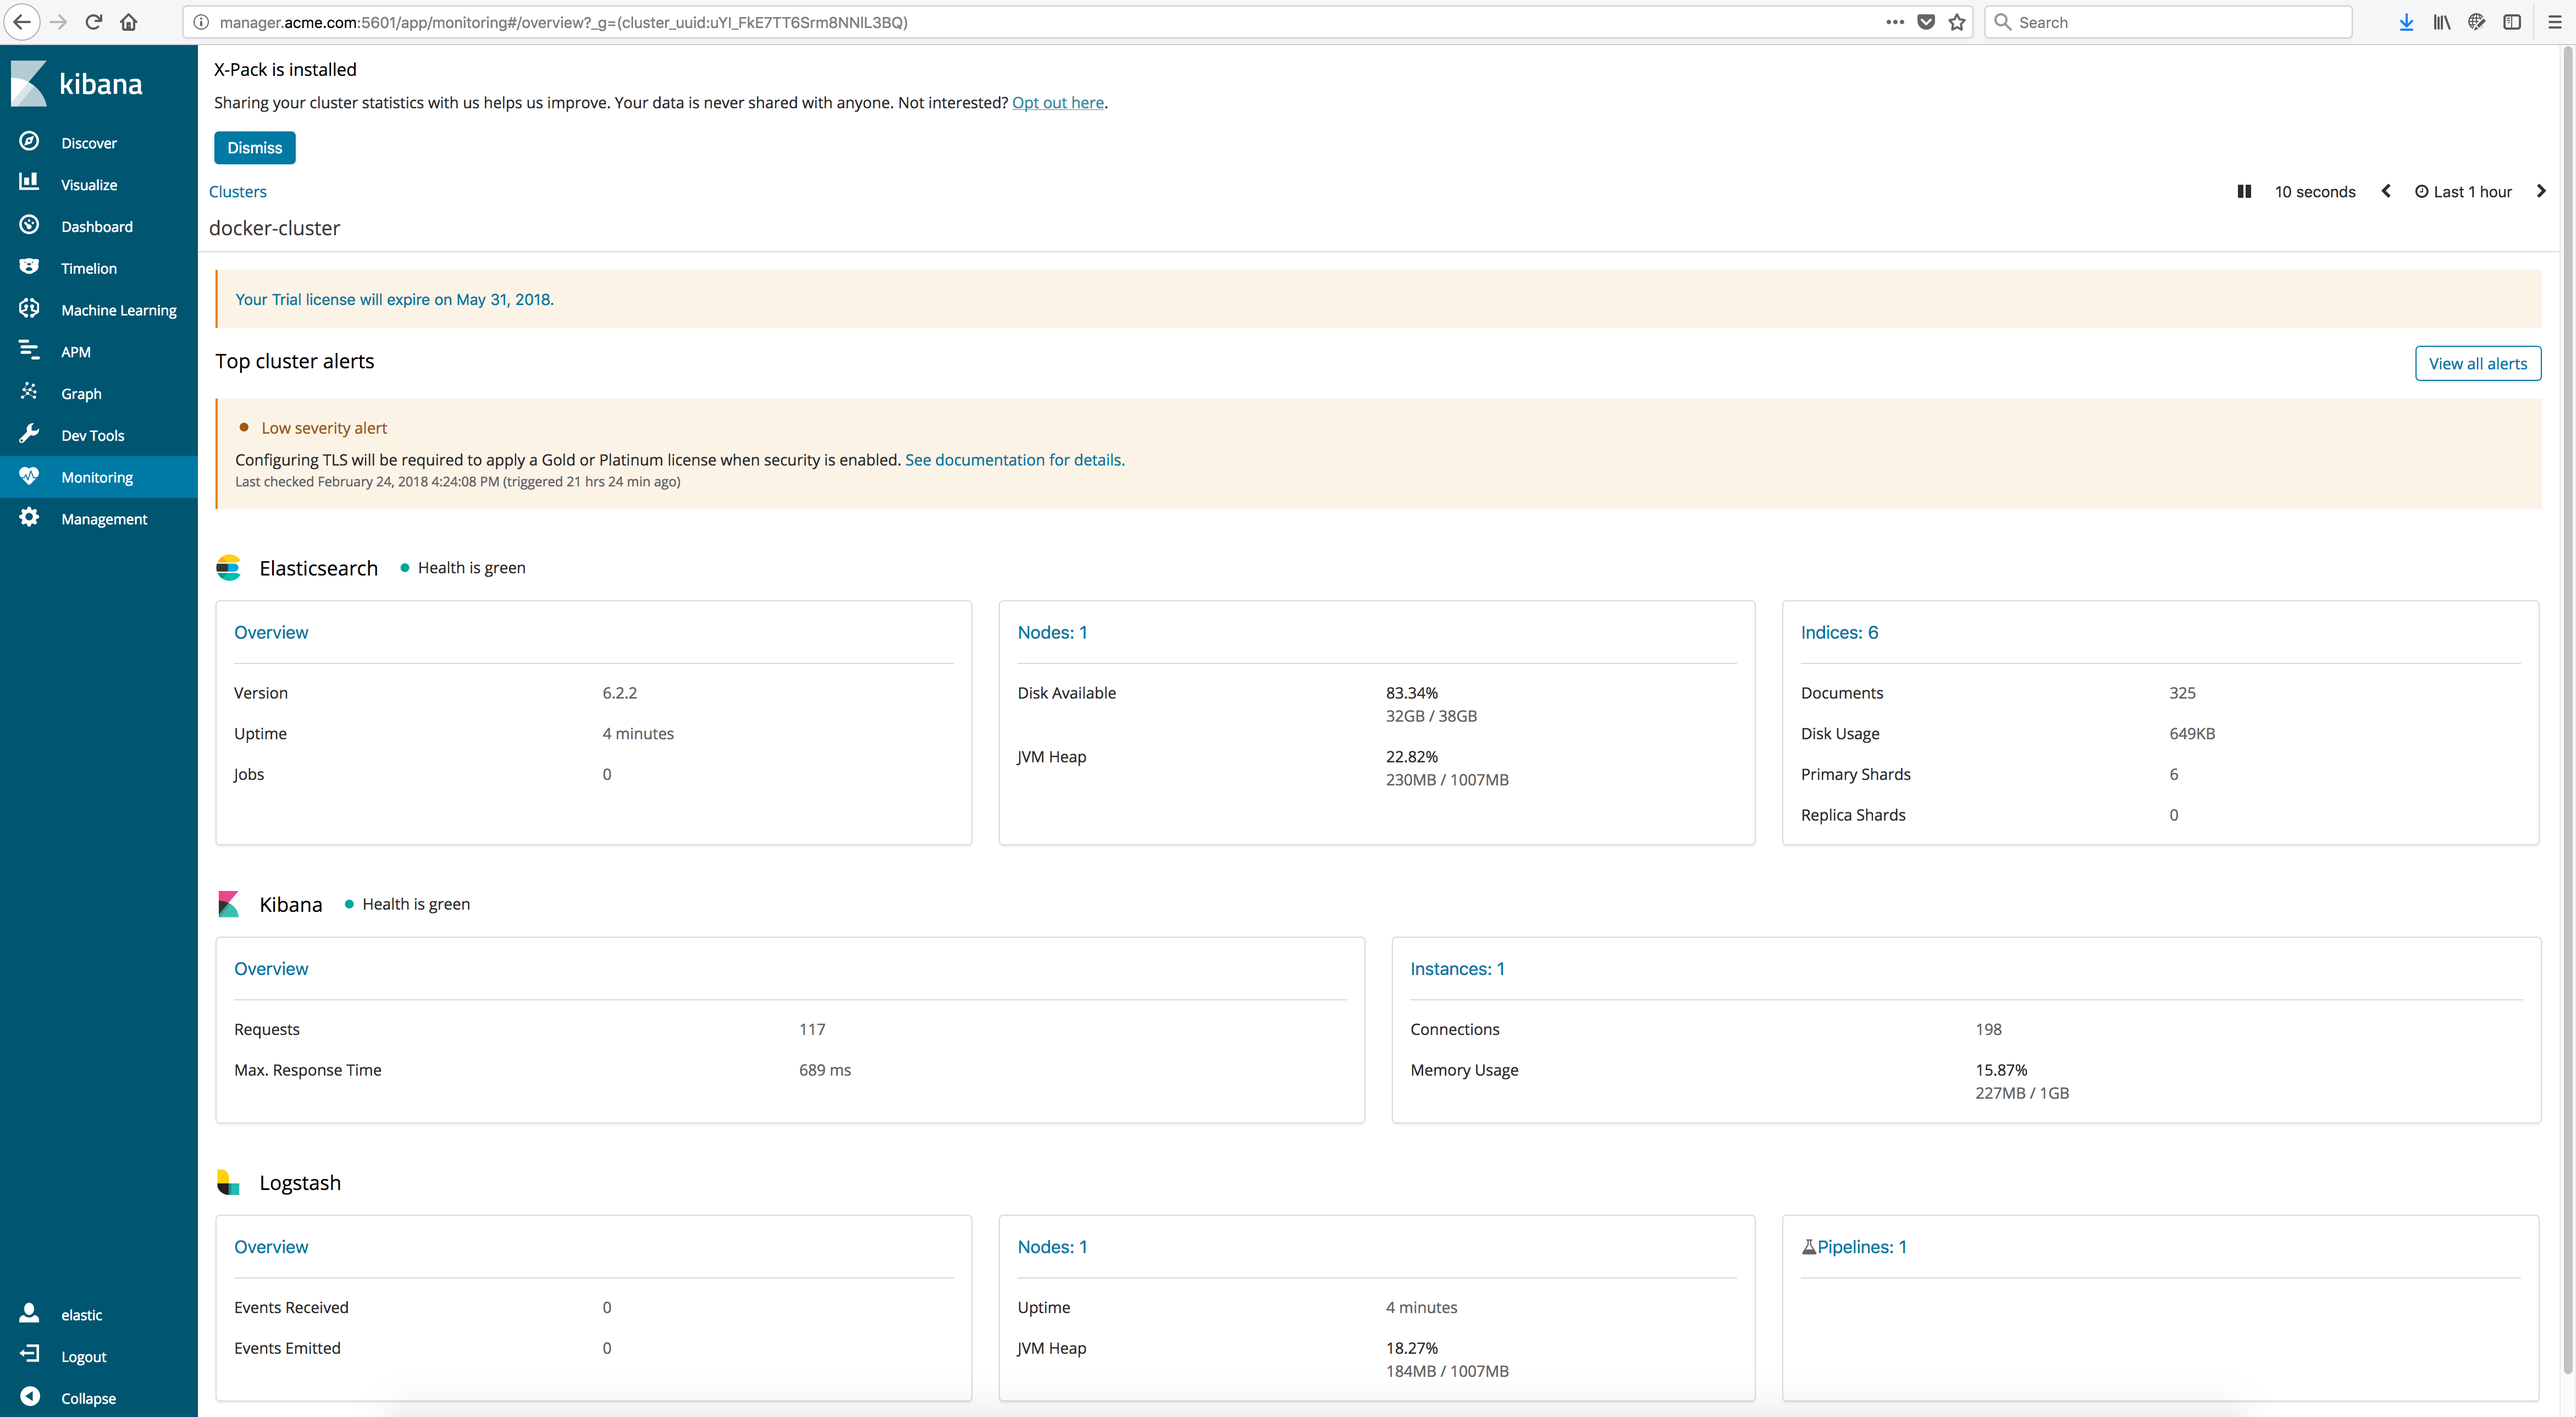
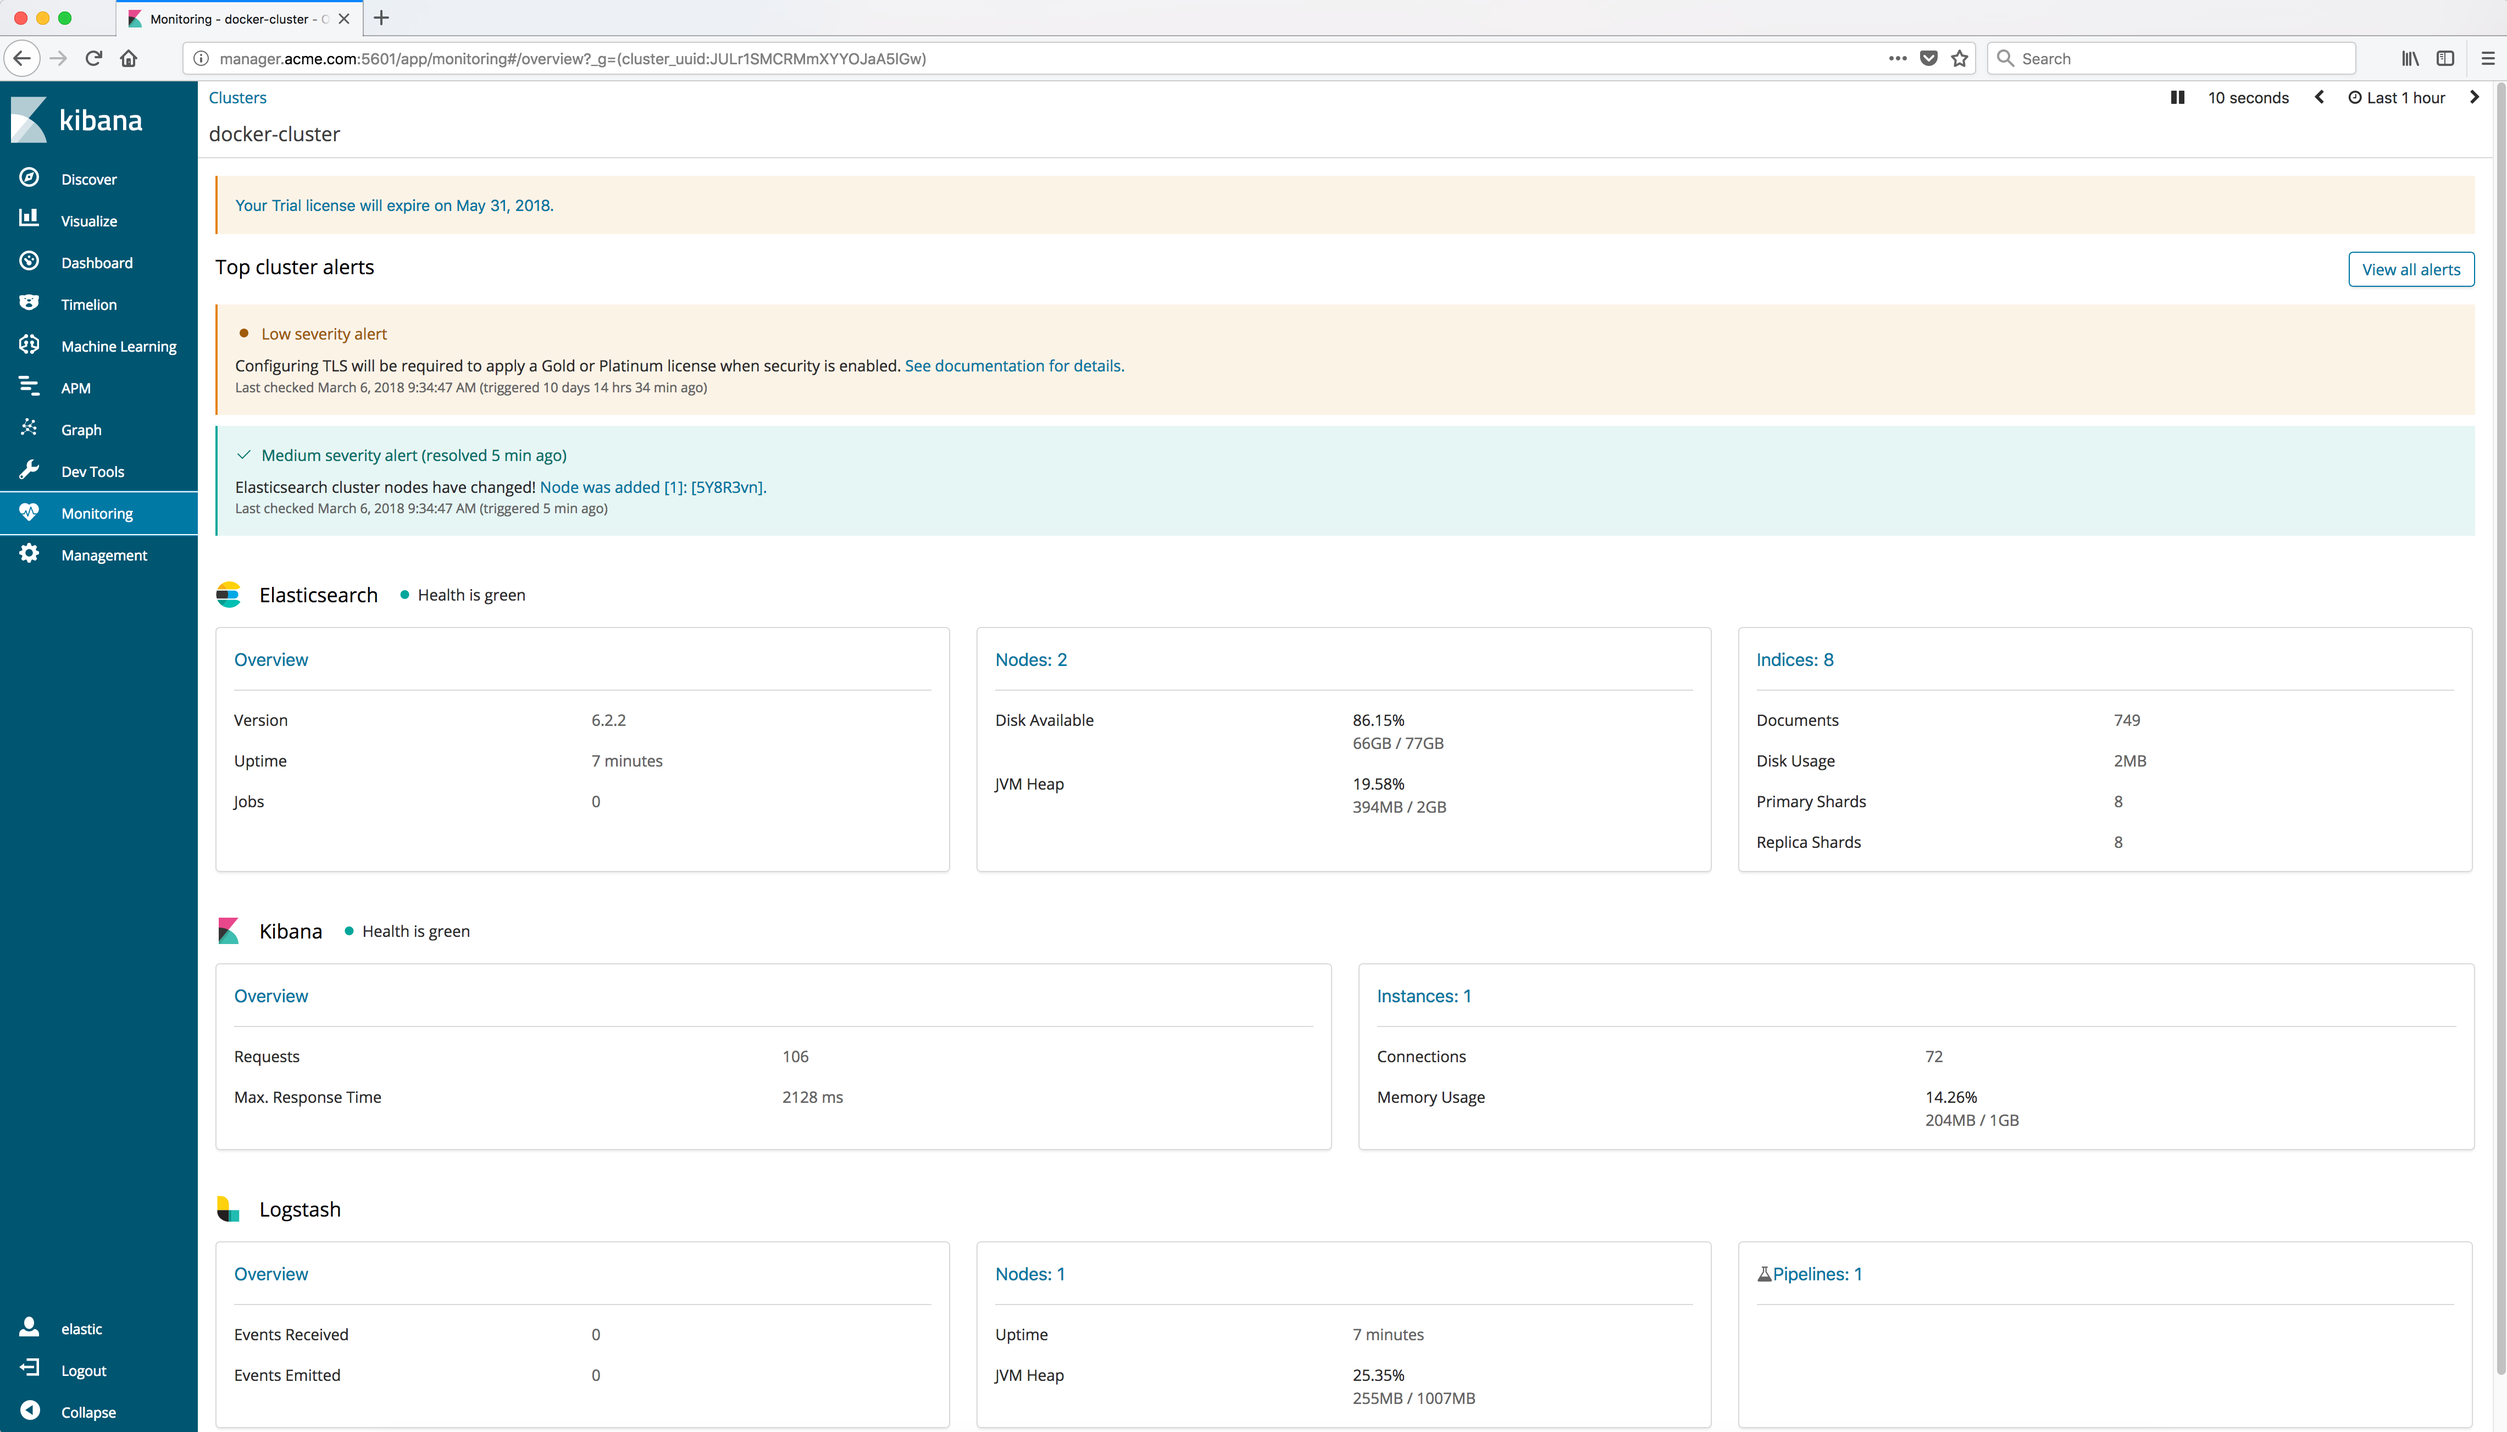
Documentation updates

diff --git a/docker_ee_logging_elk/verify_the_stack_deployment.rst b/docker_ee_logging_elk/verify_the_stack_deployment.rst
@@ -16,10 +16,10 @@ Wait about a minute for the Elastic Stack to be created.
     ..  code-block:: text
 
         ID                  NAME                  MODE                REPLICAS            IMAGE                                                          PORTS
-        45w4jhc02cqg        elk_elastic-search    replicated          1/1                 docker.elastic.co/elasticsearch/elasticsearch-platinum:6.2.2   *:9200->9200/tcp
-        hydi27jhka4o        elk_kibana            replicated          1/1                 docker.elastic.co/kibana/kibana:6.2.2                          *:5601->5601/tcp
-        iqd4d355j2y9        elk_logstash          replicated          1/1                 docker.elastic.co/logstash/logstash:6.2.2                      *:5000->5000/tcp
-        uwn3o7w63eb9        elk_elastic-search2   replicated          1/1                 docker.elastic.co/elasticsearch/elasticsearch-platinum:6.2.2
+        cqxfmyrzmv2i        elk_elastic-search2   replicated          1/1                 docker.elastic.co/elasticsearch/elasticsearch-platinum:6.2.2
+        he4icrldcvgh        elk_logstash          replicated          1/1                 docker.elastic.co/logstash/logstash:6.2.2                      *:5000->5000/tcp
+        im8ve6gr6y88        elk_elastic-search    replicated          1/1                 docker.elastic.co/elasticsearch/elasticsearch-platinum:6.2.2   *:9200->9200/tcp
+        ivaeoa627rfy        elk_kibana            replicated          1/1                 docker.elastic.co/kibana/kibana:6.2.2                          *:5601->5601/tcp
 
 2. Run the following **docker service ps** command on the swarm manager to display where the services are running and their statuses.
 
@@ -31,11 +31,11 @@ Wait about a minute for the Elastic Stack to be created.
 
     ..  code-block:: text
 
-        ID                  NAME                    IMAGE                                                          NODE                DESIRED STATE       CURRENT STATE           ERROR               PORTS
-        ye8ddkb8a959        elk_elastic-search.1    docker.elastic.co/elasticsearch/elasticsearch-platinum:6.2.2   manager             Running             Running 2 minutes ago
-        3b2p998xhpi0        elk_kibana.1            docker.elastic.co/kibana/kibana:6.2.2                          worker2             Running             Running 2 minutes ago
-        yliof9n1jlod        elk_logstash.1          docker.elastic.co/logstash/logstash:6.2.2                      manager             Running             Running 2 minutes ago
-        zee3nry4injj        elk_elastic-search2.1   docker.elastic.co/elasticsearch/elasticsearch-platinum:6.2.2   worker2             Running             Running 2 minutes ago
+        ID                  NAME                    IMAGE                                                          NODE                DESIRED STATE       CURRENT STATE                ERROR               PORTS
+        pscyqo4zseue        elk_kibana.1            docker.elastic.co/kibana/kibana:6.2.2                          manager             Running             Running 42 seconds ago
+        s4pw484fjwyn        elk_logstash.1          docker.elastic.co/logstash/logstash:6.2.2                      worker3.acme.com    Running             Running about a minute ago
+        8oq72raczrn0        elk_elastic-search2.1   docker.elastic.co/elasticsearch/elasticsearch-platinum:6.2.2   manager             Running             Running about a minute ago
+        hepts5wfukr6        elk_elastic-search.1    docker.elastic.co/elasticsearch/elasticsearch-platinum:6.2.2   worker2.acme.com    Running             Running about a minute ago
 
 3. Run the following **docker service logs** commands on the swarm manager to display the logs for the services and check them for errors.
 
@@ -68,17 +68,17 @@ Wait about a minute for the Elastic Stack to be created.
     ..  code-block:: json
 
         {
-            "name" : "Shd_IQn",
+            "name" : "NYEH5ue",
             "cluster_name" : "docker-cluster",
-            "cluster_uuid" : "BBQsv2KnSeehMwXTMeH5Jw",
+            "cluster_uuid" : "JULr1SMCRMmXYYOJaA5lGw",
             "version" : {
-                "number" : "6.2.2",
-                "build_hash" : "10b1edd",
-                "build_date" : "2018-02-16T19:01:30.685723Z",
-                "build_snapshot" : false,
-                "lucene_version" : "7.2.1",
-                "minimum_wire_compatibility_version" : "5.6.0",
-                "minimum_index_compatibility_version" : "5.0.0"
+              "number" : "6.2.2",
+              "build_hash" : "10b1edd",
+              "build_date" : "2018-02-16T19:01:30.685723Z",
+              "build_snapshot" : false,
+              "lucene_version" : "7.2.1",
+              "minimum_wire_compatibility_version" : "5.6.0",
+              "minimum_index_compatibility_version" : "5.0.0"
             },
             "tagline" : "You Know, for Search"
         }
@@ -102,8 +102,8 @@ Wait about a minute for the Elastic Stack to be created.
             "timed_out": false,
             "number_of_nodes": 2,
             "number_of_data_nodes": 2,
-            "active_primary_shards": 4,
-            "active_shards": 8,
+            "active_primary_shards": 7,
+            "active_shards": 14,
             "relocating_shards": 0,
             "initializing_shards": 0,
             "unassigned_shards": 0,

diff --git a/docker_ee_logging_elk/swarm_configuration.rst b/docker_ee_logging_elk/swarm_configuration.rst
@@ -3,7 +3,7 @@
 Docker EE Swarm Configuration
 =============================
 
-An Elasticsearch, Logstash and Kibana stack will be deployed to the following 3 node Docker Swarm.
+An Elasticsearch, Logstash and Kibana stack will be deployed to the following 4 node Docker Swarm.
 
 ..  image:: images/docker_swarm_configuration.png
 

diff --git a/docker_ee_logging_elk/logstash_conf.rst b/docker_ee_logging_elk/logstash_conf.rst
@@ -4,8 +4,8 @@
 
     \newpage
 
-logstash.conf file
-==================
+Download the logstash.conf file
+===============================
 
 This is a sample **Logstash.conf** file which configures logstash. This file must exist in the same directory as the :ref:`docker-compose.yml<elk_docker_compose_yml>` file. 
 

diff --git a/docker_ee_logging_elk/docker_compose_yml.rst b/docker_ee_logging_elk/docker_compose_yml.rst
@@ -4,8 +4,8 @@
 
     \newpage
 
-docker-compose.yml file
-=======================
+Download the docker-compose.yml file
+====================================
 
 This is the sample **docker-compose.yml** file which will be used to bring up the Elastic stack. 
 
